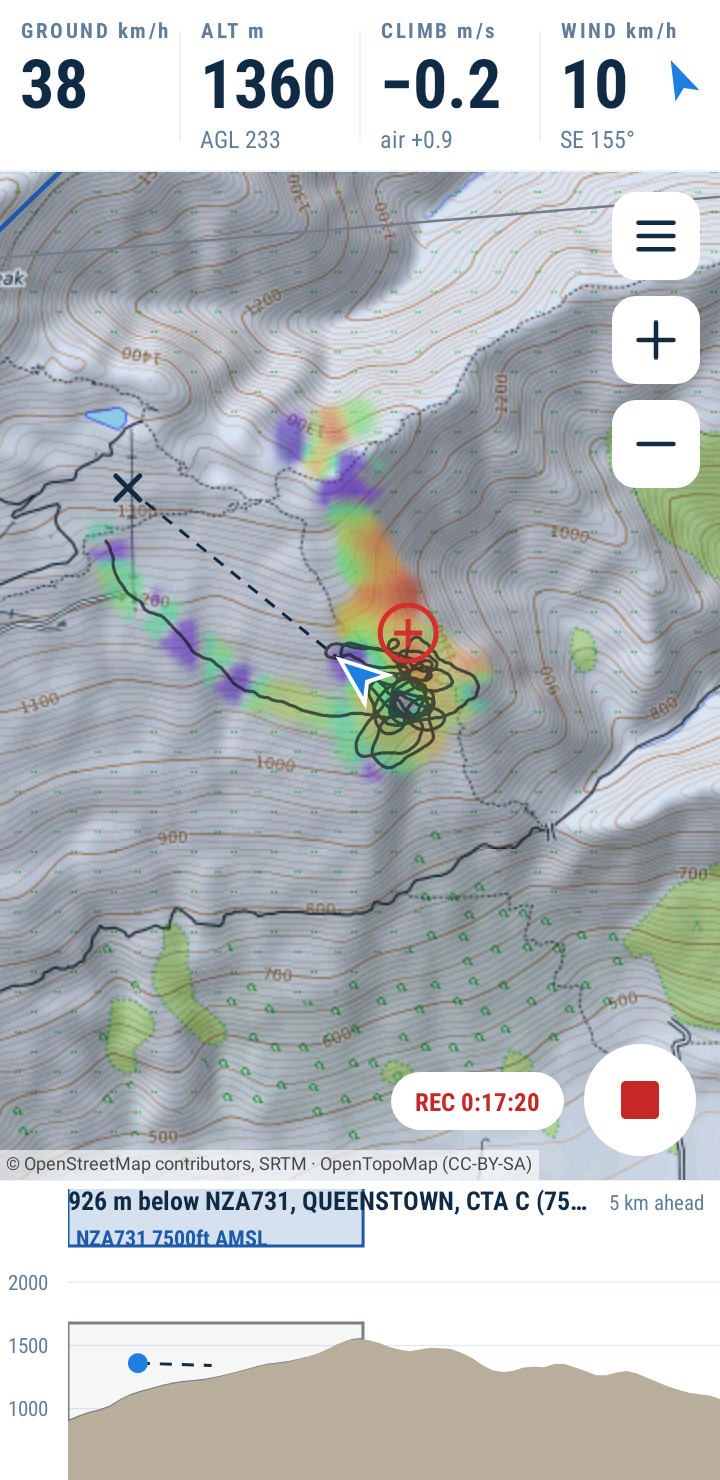
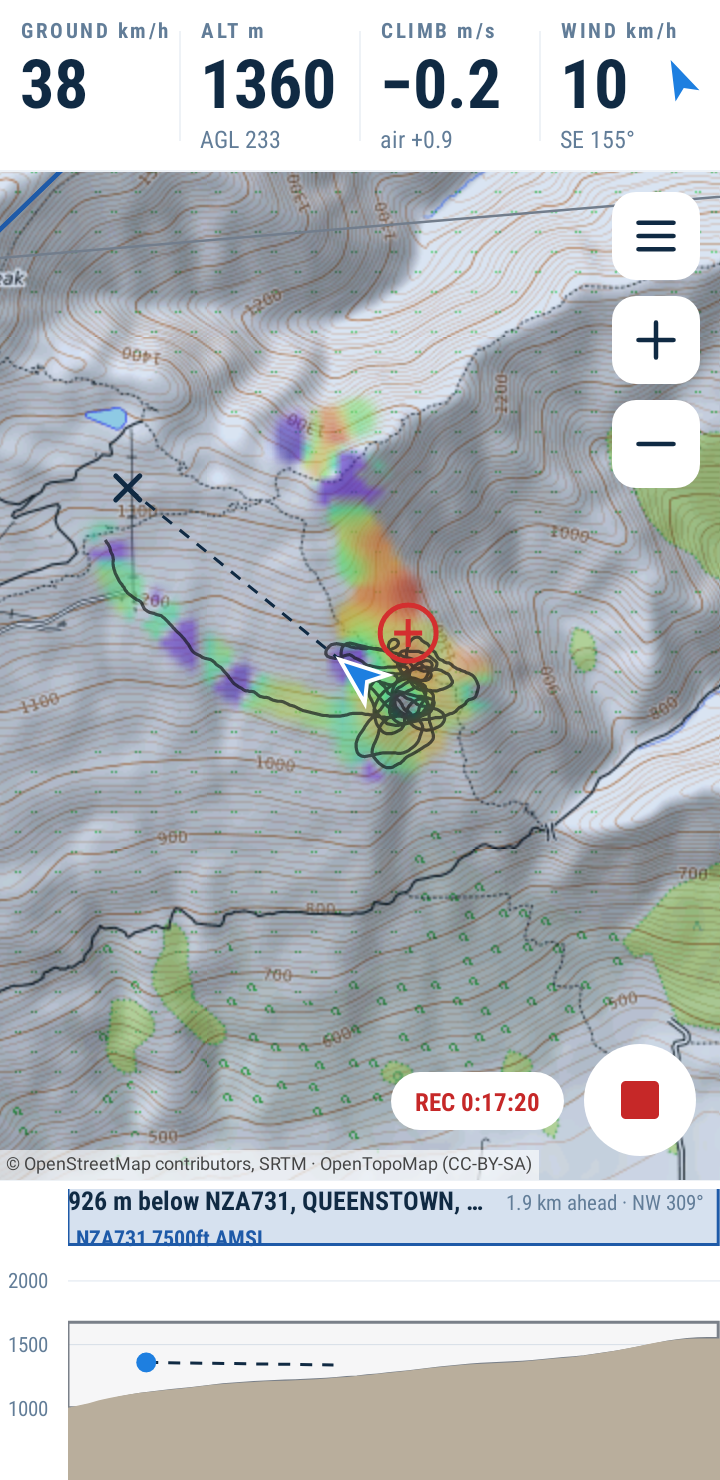
cloudbase: side view shows its bearing and shares the map's scale
The side view's label now reads e.g. "1.9 km ahead · NW 309°". Its
horizontal scale comes from the map's metres-per-pixel, so zooming the
map zooms the side view; the tap-to-cycle ranges are gone.

diff --git a/app/src/main/java/app/cloudbase/ui/SideView.kt b/app/src/main/java/app/cloudbase/ui/SideView.kt
@@ -29,9 +29,12 @@ import kotlin.math.min
  * the terrain below, airspace as blocks, and the glider's projected path. Answers "how much
  * room do I have above me, and what am I about to fly into?".
  *
+ * Its horizontal scale is the map's: [metresPerPixel] comes from the map, so a kilometre is
+ * the same width in both and zooming the map zooms this too.
+ *
  * The slice is recomputed once per GPS fix in [refresh]; onDraw only paints what was computed.
  */
-class SideView(context: Context) : View(context) {
+class SideView(context: Context, private val metresPerPixel: () -> Double) : View(context) {
     private val terrainPaint = Paint(Paint.ANTI_ALIAS_FLAG).apply { color = Theme.TERRAIN }
     private val slabFill = Paint().apply { style = Paint.Style.FILL }
     private val slabEdge = Paint(Paint.ANTI_ALIAS_FLAG).apply { style = Paint.Style.STROKE; strokeWidth = context.dp(1.5f) }
@@ -46,10 +49,9 @@ class SideView(context: Context) : View(context) {
     }
     private val path = Path()
 
-    /** Distance shown ahead of the glider, metres. Tap cycles through [RANGES]. */
-    private var rangeIndex = 0
-    private val rangeM get() = RANGES[rangeIndex]
-    private var bearing = 0.0
+    /** Ground distance across the plot, metres: the plot's width at the map's scale. */
+    private var spanM = 1.0
+    private var bearing = Double.NaN
     private val terrain = DoubleArray(SAMPLES) { Double.NaN }
     private var slabs: List<Slab> = emptyList()
     private var relevance: List<Relevance> = emptyList()
@@ -66,23 +68,25 @@ class SideView(context: Context) : View(context) {
 
     init {
         setBackgroundColor(Theme.BG)
-        setOnClickListener {
-            rangeIndex = (rangeIndex + 1) % RANGES.size
-            refresh()
-        }
     }
 
-    private val backM get() = rangeM * BEHIND
-    private val spanM get() = rangeM * (1 + BEHIND)
+    override fun onSizeChanged(w: Int, h: Int, oldw: Int, oldh: Int) = refresh()
+
+    /** Distance shown behind the glider, metres. */
+    private val backM get() = spanM * BEHIND
 
     fun refresh() {
         val c = Hub.computer
         val f = c.fix
         if (f == null || c.altMsl.isNaN()) { hasData = false; invalidate(); return }
+        val mpp = metresPerPixel()
+        if (width <= padL || mpp.isNaN() || mpp <= 0) { hasData = false; invalidate(); return }
+        spanM = (width - padL) * mpp
         hasData = true
         // The same heading the airspace warnings project, so the dashed line shows what they predict.
         val hd = c.heading
         if (!hd.trackDeg.isNaN()) bearing = hd.trackDeg
+        if (bearing.isNaN()) { hasData = false; invalidate(); return }
         altMsl = c.altMsl
         stdToMsl = if (c.pressureAlt.isNaN()) 0.0 else c.altMsl - c.pressureAlt
         speed = hd.speed
@@ -173,7 +177,7 @@ class SideView(context: Context) : View(context) {
     override fun onDraw(canvas: Canvas) {
         canvas.drawLine(0f, 0f, width.toFloat(), 0f, gridPaint)
         if (!hasData) {
-            canvas.drawText("Side view appears with a GPS fix", context.dp(12f), height / 2f, textPaint)
+            canvas.drawText("Side view appears with a GPS fix and a track", context.dp(12f), height / 2f, textPaint)
             return
         }
         val u = Units(Hub.settings)
@@ -245,7 +249,15 @@ class SideView(context: Context) : View(context) {
         }
         canvas.drawCircle(gx, gy, context.dp(5f), gliderPaint)
 
-        val range = if (rangeM >= 1000) "${(rangeM / 1000).toInt()} km ahead" else "${rangeM.toInt()} m ahead"
+        // The direction of the slice, so it can be matched to the map and the ground.
+        val dir = "${InstrumentBar.compass(bearing)} ${"%03d".format(Math.round(bearing).toInt() % 360)}°"
+        val aheadM = spanM - backM
+        val ahead = when {
+            aheadM >= 9_500 -> "${Math.round(aheadM / 1000)} km"
+            aheadM >= 1_000 -> "%.1f km".format(aheadM / 1000)
+            else -> "${(Math.round(aheadM / 50) * 50)} m"
+        }
+        val range = "$ahead ahead · $dir"
         val rangeX = width - textPaint.measureText(range) - context.dp(8f)
         canvas.drawText(range, rangeX, context.dp(15f), textPaint)
         headPaint.color = headlineColor
@@ -256,8 +268,7 @@ class SideView(context: Context) : View(context) {
     }
 
     companion object {
-        val RANGES = doubleArrayOf(5_000.0, 10_000.0, 2_000.0)
-        /** Fraction of the range also shown behind the glider. */
+        /** Fraction of the plot's width that is behind the glider. */
         const val BEHIND = 0.12
         const val SAMPLES = 64
         /** Sky shown above the glider when there is no airspace overhead. */

diff --git a/app/src/main/java/app/cloudbase/map/MapView.kt b/app/src/main/java/app/cloudbase/map/MapView.kt
@@ -87,7 +87,15 @@ class MapView(context: Context, val layer: TileLayer, val source: TileSource) : 
     var centerLon: Double = 0.0
         set(v) { field = Geo.norm180(v); changed() }
     var zoom: Double = source.minZoom.toDouble()
-        set(v) { field = v.coerceIn(source.minZoom.toDouble(), maxZoom); changed() }
+        set(v) {
+            val z = v.coerceIn(source.minZoom.toDouble(), maxZoom)
+            val was = field
+            field = z
+            changed()
+            if (z != was) onZoomChanged?.invoke()
+        }
+    /** Called after [zoom] changes, by the user or by code. */
+    var onZoomChanged: (() -> Unit)? = null
 
     /** True while the map follows the aircraft; a user pan (or a zoom that moves the centre) clears it. */
     var follow: Boolean = true

diff --git a/app/src/main/java/app/cloudbase/MainActivity.kt b/app/src/main/java/app/cloudbase/MainActivity.kt
@@ -110,7 +110,8 @@ class MainActivity : Activity() {
         Hub.airspace.onChanged = { airspaceChanged(); page?.rebuild() }
 
         instruments = InstrumentBar(this)
-        side = SideView(this)
+        side = SideView(this) { map.projection.metresPerPixel }
+        map.onZoomChanged = { if (side.visibility == View.VISIBLE) side.refresh() }
         banner = AlertBanner(this) { Hub.computer.dismissBanner(); refresh() }
         chip = Theme.body(this, "", Theme.TEXT, 12.5f).apply {
             typeface = Theme.CONDENSED_BOLD

diff --git a/README.md b/README.md
@@ -58,7 +58,7 @@ shows where you will be in a minute instead).
 **Side view.** A slice through the air along your direction of travel: terrain, airspace as
 blocks at their real heights, your projected path, and the headline number — how far below the
 next airspace floor you are. It shows from the ground to just past the next boundary above you
-(the floor overhead, or the top of the airspace you are in) and opens up as you cross each one. Tap to change the range (2, 5, 10 km).
+(the floor overhead, or the top of the airspace you are in) and opens up as you cross each one. It is drawn at the map's scale, so zoom the map to see further ahead.
 
 **Alerts.** A band under the instruments, a tone and (optionally) a spoken warning, once, each
 time something changes: you are *approaching* an airspace (amber: you could be in it within the
